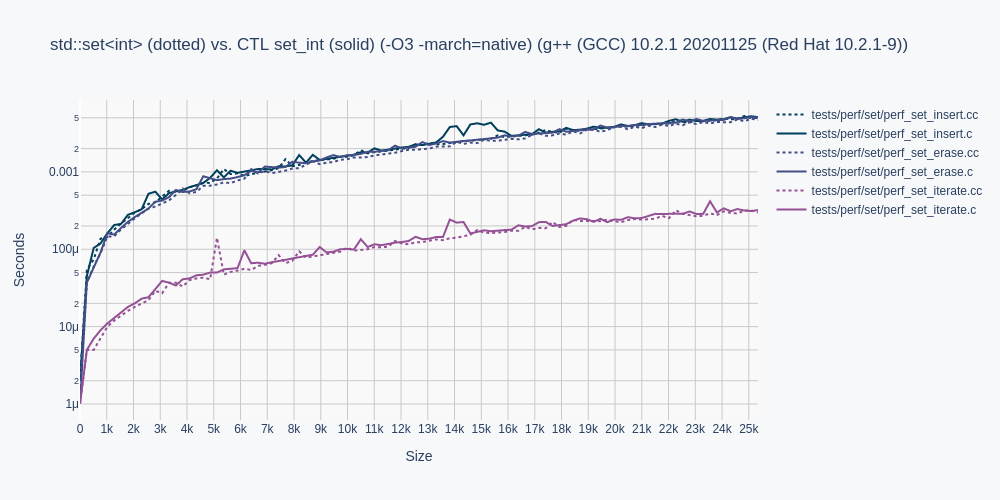
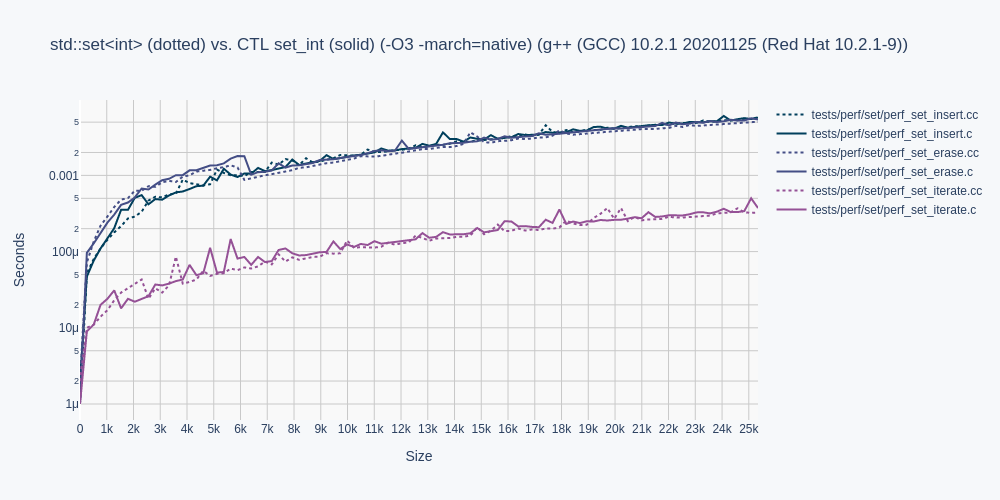
optimize list into connect_before and after
no run-time branches.
move adjacent funcs together.

still slightly slower than before, only sort is faster.

Changed region(s): [[0.031, 0.21, 0.775, 0.75]]

diff --git a/ctl/list.h b/ctl/list.h
@@ -127,7 +127,7 @@ JOIN(A, disconnect)(A* self, B* node)
 }
 
 static inline void
-JOIN(A, connect)(A* self, B* position, B* node, int before)
+JOIN(A, connect_before)(A* self, B* position, B* node)
 {
     if(JOIN(A, empty)(self))
     {
@@ -137,26 +137,13 @@ JOIN(A, connect)(A* self, B* position, B* node, int before)
     else
     if (self->size < JOIN(A, max_size)())
     {
-        if(before)
-        {
-            node->next = position;
-            node->prev = position->prev;
-            if(position->prev)
-                position->prev->next = node;
-            position->prev = node;
-            if(position == self->head)
-                self->head = node;
-        }
-        else
-        {
-            node->prev = position;
-            node->next = position->next;
-            if(position->next)
-                position->next->prev = node;
-            position->next = node;
-            if(position == self->tail)
-                self->tail = node;
-        }
+        node->next = position;
+        node->prev = position->prev;
+        if(position->prev)
+            position->prev->next = node;
+        position->prev = node;
+        if(position == self->head)
+            self->head = node;
         self->size += 1;
     }
     /* error handling? silent ignore or stderr or assert or customizable.
@@ -167,24 +154,17 @@ JOIN(A, connect)(A* self, B* position, B* node, int before)
 }
 
 static inline void
-JOIN(A, push_back)(A* self, T value)
-{
-    B* node = JOIN(B, init)(value);
-    JOIN(A, connect)(self, self->tail, node, 0);
-}
-
-static inline void
 JOIN(A, push_front)(A* self, T value)
 {
     B* node = JOIN(B, init)(value);
-    JOIN(A, connect)(self, self->head, node, 1);
+    JOIN(A, connect_before)(self, self->head, node);
 }
 
 static inline void
-JOIN(A, transfer)(A* self, A* other, B* position, B* node, int before)
+JOIN(A, transfer_before)(A* self, A* other, B* position, B* node)
 {
     JOIN(A, disconnect)(other, node);
-    JOIN(A, connect)(self, position, node, before);
+    JOIN(A, connect_before)(self, position, node);
 }
 
 // FIXME I* position
@@ -214,7 +194,7 @@ static inline void
 JOIN(A, insert)(A* self, B* position, T value)
 {
     B* node = JOIN(B, init)(value);
-    JOIN(A, connect)(self, position, node, 1);
+    JOIN(A, connect_before)(self, position, node);
 }
 
 static inline void
@@ -229,6 +209,40 @@ JOIN(A, free)(A* self)
 {
     JOIN(A, clear)(self);
     *self = JOIN(A, init)();
+}
+
+static inline void
+JOIN(A, connect_after)(A* self, B* position, B* node)
+{
+    if(JOIN(A, empty)(self))
+    {
+        self->head = self->tail = node;
+        self->size += 1;
+    }
+    else
+    if (self->size < JOIN(A, max_size)())
+    {
+        node->prev = position;
+        node->next = position->next;
+        if(position->next)
+            position->next->prev = node;
+        position->next = node;
+        if(position == self->tail)
+            self->tail = node;
+        self->size += 1;
+    }
+    /* error handling? silent ignore or stderr or assert or customizable.
+    else
+        assert (0 || "list size exceeded");
+        fprintf (stderr, "list size exceeded");
+    */
+}
+
+static inline void
+JOIN(A, push_back)(A* self, T value)
+{
+    B* node = JOIN(B, init)(value);
+    JOIN(A, connect_after)(self, self->tail, node);
 }
 
 static inline void
@@ -358,7 +372,15 @@ JOIN(A, splice)(A* self, B* pos, A* other)
         JOIN(A, swap)(self, other);
     else
         foreach(A, other, it)
-            JOIN(A, transfer)(self, other, pos, it.node, 1);
+            JOIN(A, transfer_before)(self, other, pos, it.node);
+}
+
+// only needed for merge
+static inline void
+JOIN(A, transfer_after)(A* self, A* other, B* position, B* node)
+{
+    JOIN(A, disconnect)(other, node);
+    JOIN(A, connect_after)(self, position, node);
 }
 
 #if 0
@@ -381,10 +403,10 @@ JOIN(A, merge)(A* self, A* other, int _compare(T*, T*))
     {
         for(B* node = self->head; node; node = node->next)
             while(!JOIN(A, empty)(other) && _compare(&node->value, &other->head->value))
-                JOIN(A, transfer)(self, other, node, other->head, 1);
+                JOIN(A, transfer_before)(self, other, node, other->head);
         // Remainder.
         while(!JOIN(A, empty)(other))
-            JOIN(A, transfer)(self, other, self->tail, other->head, 0);
+            JOIN(A, transfer_after)(self, other, self->tail, other->head);
     }
 }
 
@@ -418,7 +440,7 @@ JOIN(A, sort)(A* self, int _compare(T*, T*))
         A* counter = NULL;
         do
         {
-            JOIN(A, transfer)(&carry, self, carry.head, self->head, 1);
+            JOIN(A, transfer_before)(&carry, self, carry.head, self->head);
             for(counter = temp; counter != fill && !JOIN(A, empty)(counter); counter++)
             {
                 JOIN(A, merge)(counter, &carry, _compare);
